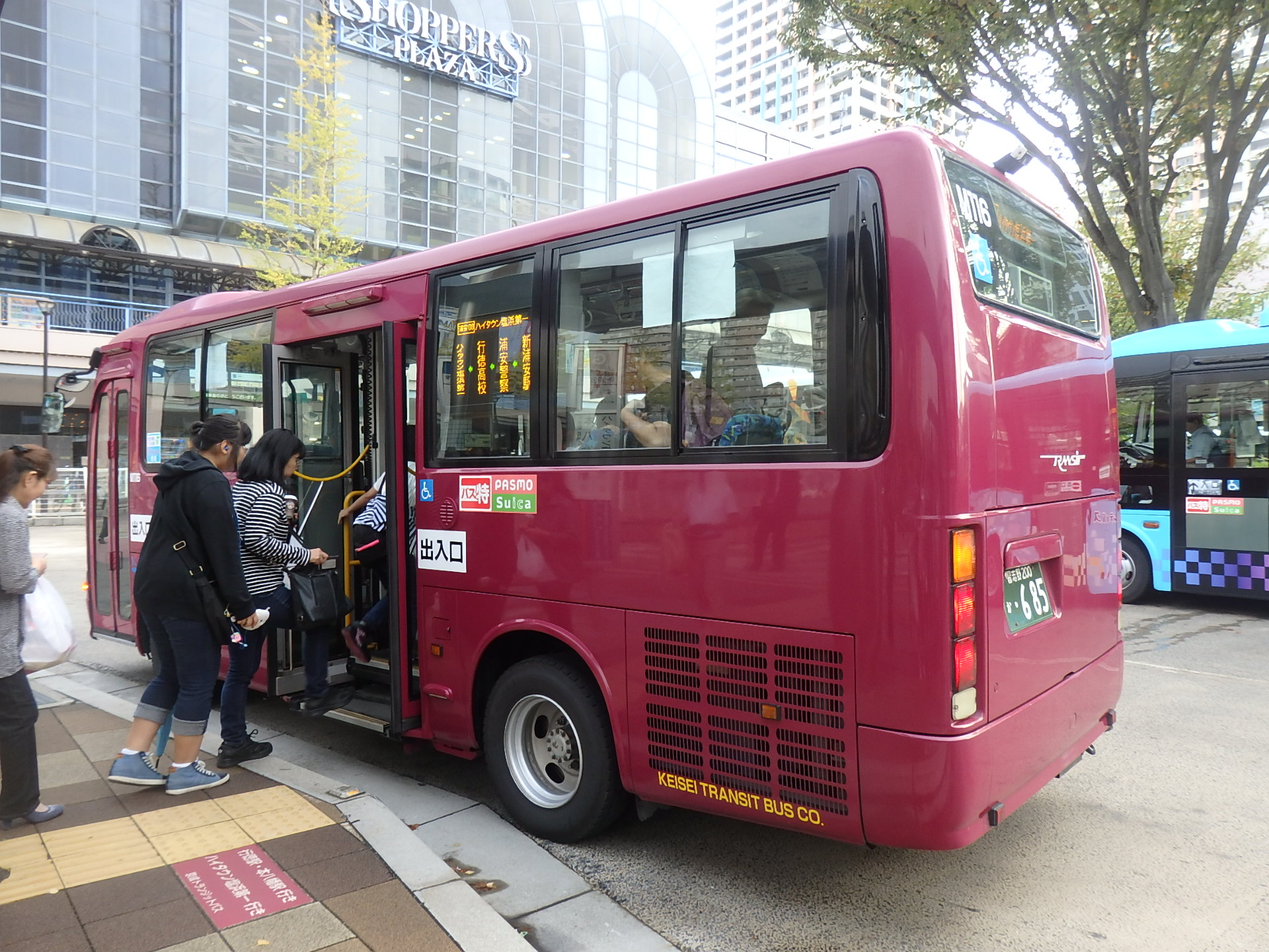
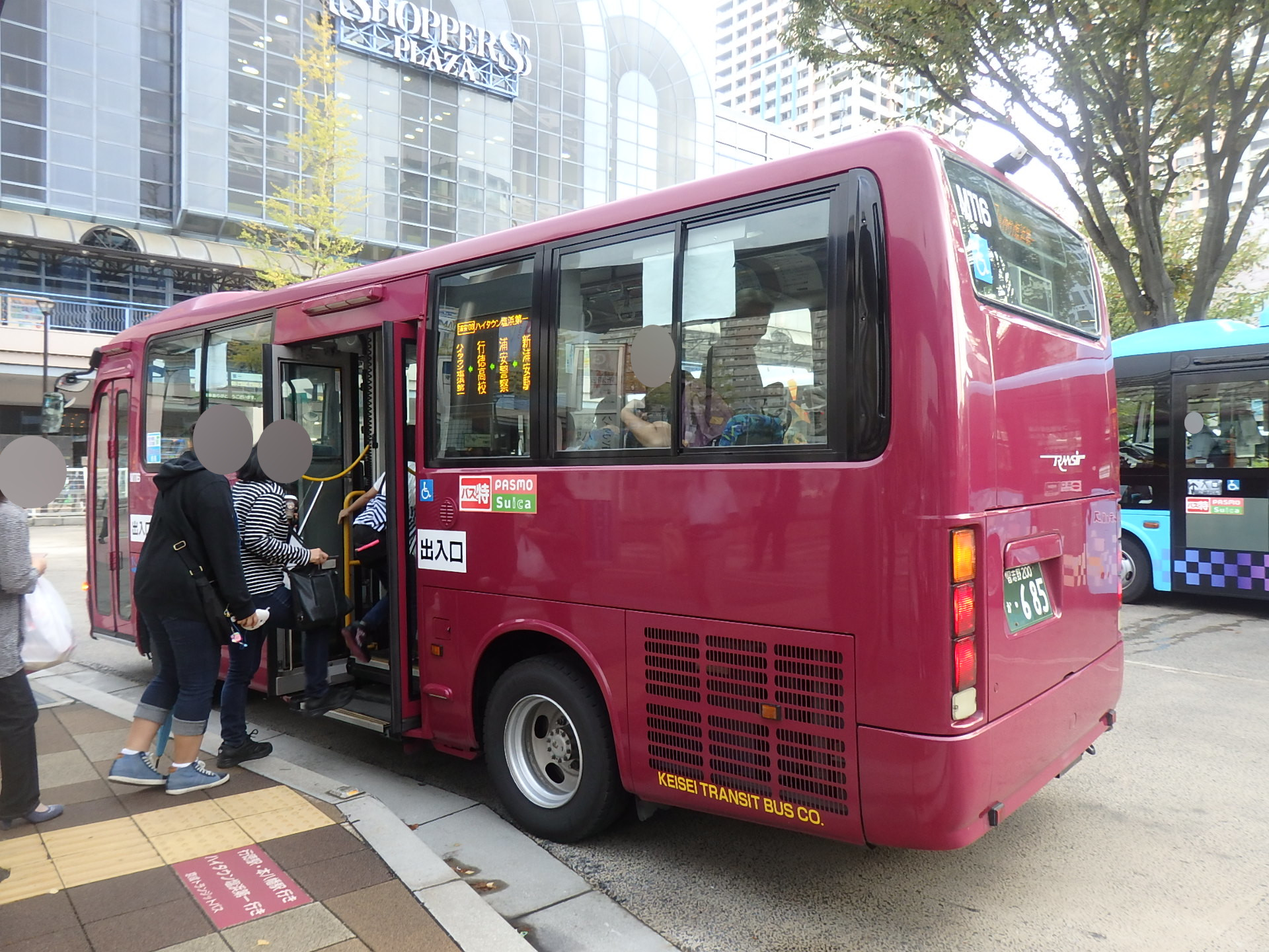
20251231 - added M244, M245, M250, M252 page - edited M242, M246, M248, M251, M254, M253, 501, M114, M116, M232, M233 page

diff --git a/docs/gkbuspage/Buses.html b/docs/gkbuspage/Buses.html
@@ -59,17 +59,17 @@
 		<td style="background:#800080">M241</td>
 		<td style="background:#800080"><a href="M242.html">M242</a></td>
 		<td style="background:#800080">M243</td>
-		<td style="background:#800080">M244</td>
-		<td style="background:#800080">M245</td>
+		<td style="background:#800080"><a href="M244.html">M244</a></td>
+		<td style="background:#800080"><a href="M245.html">M245</a></td>
 		<td style="background:#800080"><a href="M246.html">M246</a></td>
 		<td style="background:#00bfff">M247</td>
 		<td style="background:#00bfff"><a href="M248.html">M248</a></td>
 		<td style="background:#00bfff">M249</td>
 	</tr>
 	<tr>
-		<td style="background:#800080">M250</td>
+		<td style="background:#800080"><a href="M250.html">M250</a></td>
 		<td style="background:#00008b"><font color="white"><a href="M251.html">M251</a></font></td>
-		<td style="background:#00008b"><font color="white">M252</font></td>
+		<td style="background:#00008b"><font color="white"><a href="M252.html">M252</a></font></td>
 		<td style="background:#00008b"><font color="white"><a href="M253.html">M253</a></font></td>
 		<td style="background:#00008b"><font color="white"><a href="M254.html">M254</a></font></td>
 		<td style="background:#00008b"><font color="white">M255</font></td>
@@ -134,4 +134,5 @@
 </table>
 <b><font color="#ff0000">注意！この表にある車両だけでも相当数の車両が転出していますが、反映していません。あくまでも在籍時の記録としてご活用ください。</font></b><br>
 ※各ページの写真には肖像権関連の事情で加工が施されている場合があります<br>
+2025/12/31：M244，M245，M250，M252号車のページを追加．M242，M246，M248，M251，M254，M253，501，M114，M116，M232，M233号車のページを編集．
 </body>

diff --git a/docs/gkbuspage/M250.html b/docs/gkbuspage/M250.html
@@ -1,0 +1,42 @@
+<!DOCTYPE html>
+<html lang="ja">
+<head>
+<meta http-equiv="Content-Type" content="text/html; charset=UTF-8">
+<link rel="shortcut icon" href="../favicon.ico" />
+<link rel="icon" type="image/vnd.microsoft.icon" href="../favicon.ico">
+<link rel="stylesheet" type="text/css" href="../csses/transit.css">
+<title>M250 - 車両紹介 - ZerosakaDiary</title>
+</head>
+<body background="../images/Aquablue_mat.JPG">
+<FONT size="7">M250</FONT><br>
+<table border="1" cellpadding="5" cellspacing="0">
+	<tr>
+		<td colspan=2><b>M250号車</b></td>
+	</tr>
+	<tr>
+		<td>運用範囲</td>
+		<td>貸切</td>
+	</tr>
+	<tr>
+		<td>車種</td>
+		<td>エルガ</td>
+	</tr>
+	<tr>
+		<td>車番が記述されている場所</td>
+		<td>前面窓下凹部</td>
+	</tr>
+	<tr>
+		<td>特記事項</td>
+		<td>どうしてハイブリッドと新型エルガの間に一両だけこいつがいる？</td>
+	</tr>
+</table>
+この車両の不思議なところ，それはエルガハイブリッドと新型エルガの間に挟まれた，<b>へんなところにひとりぼっちの</b>エルガということである．<br>
+そんなこの車両も，今ではM251といっしょに貸切行き．なんだろうこの会社，やはりヘンだ．<br>
+<p>
+<img src="pictures\250/IMG_0167.JPG" alt="写真" title="前面。花火大会の日なので，本八幡駅南口と大洲防災公園間をピストン輸送していた．" width=75%>
+</p>
+<p>
+<img src="pictures\250/s-PXL_20241012_042153113.JPG" alt="写真" title="側面。2024年10月時点ではまだ貸切ではなかったようだ．" width=75%>
+</p>
+<a href="Buses.html">戻る</a>
+<!--2018/06/27 完成-->

diff --git a/docs/gkbuspage/M252.html b/docs/gkbuspage/M252.html
@@ -5,13 +5,13 @@
 <link rel="shortcut icon" href="../favicon.ico" />
 <link rel="icon" type="image/vnd.microsoft.icon" href="../favicon.ico">
 <link rel="stylesheet" type="text/css" href="../csses/transit.css">
-<title>M251 - 車両紹介 - ZerosakaDiary</title>
+<title>M252 - 車両紹介 - ZerosakaDiary</title>
 </head>
 <body background="../images/Aquablue_mat.JPG">
-<FONT size="7">M251</FONT><br>
+<FONT size="7">M252</FONT><br>
 <table border="1" cellpadding="5" cellspacing="0">
 	<tr>
-		<td colspan=2><b>M251号車</b></td>
+		<td colspan=2><b>M252号車</b></td>
 	</tr>
 	<tr>
 		<td>運用範囲</td>
@@ -27,11 +27,18 @@
 	</tr>
 	<tr>
 		<td>特記事項</td>
-		<td>京成ﾄﾗﾝｼﾞｯﾄﾊﾞｽで最初に導入された新型エルガである。</td>
+		<td></td>
 	</tr>
 </table>
 <p>
-<img src="pictures\251\P7220013.JPG" alt="写真" title="前面。新車ということもあり非常に光沢が強い。" width=75%>
+<img src="pictures\252\s-PXL_20240930_214557120.JPG" alt="写真" title="前面。この頃はまだ社名とロゴが残っている．" width=75%>
+</p>
+<hr>
+<p>
+<img src="pictures\252\s-PXL_20250218_234013396.JPG" alt="写真" title="前面。社名変更を1ヶ月半後に控えているため，前面からは社名は削除されている．" width=75%>
+</p>
+<p>
+<img src="pictures\252\s-PXL_20250218_234018316.JPG" alt="写真" title="後面。京成トランジットバスの社名は車体後部に小さく残すのみとなった．" width=75%>
 </p>
 <br>
 <a href="Buses.html">戻る</a>

diff --git a/docs/gkbuspage/M244.html b/docs/gkbuspage/M244.html
@@ -5,17 +5,17 @@
 <link rel="shortcut icon" href="../favicon.ico" />
 <link rel="icon" type="image/vnd.microsoft.icon" href="../favicon.ico">
 <link rel="stylesheet" type="text/css" href="../csses/transit.css">
-<title>M242 - 車両紹介 - ZerosakaDiary</title>
+<title>M244 - 車両紹介 - ZerosakaDiary</title>
 </head>
 <body background="../images/Aquablue_mat.JPG">
-<FONT size="7">M242</FONT><br>
+<FONT size="7">M244</FONT><br>
 <table border="1" cellpadding="5" cellspacing="0">
 	<tr>
-		<td colspan=2><b>M242号車</b></td>
+		<td colspan=2><b>M244号車</b></td>
 	</tr>
 	<tr>
 		<td>運用範囲</td>
-		<td>京成ﾄﾗﾝｼﾞｯﾄﾊﾞｽ通常路線</td>
+		<td>貸切・JP楽天ロジスティクス専用</td>
 	</tr>
 	<tr>
 		<td>車種</td>
@@ -31,8 +31,7 @@
 	</tr>
 </table>
 <p>
-<img src="pictures\242/IMG_0938_trimmed.JPG" alt="写真" title="前面。白字で「ノンステップバス」と表記されている。" width=75%>
-<img src="pictures\242/s-PXL_20241006_062542264.JPG" alt="写真" title="後部。コミュニティ代走時に撮影．" width=75%>
+<img src="pictures\244/s-PXL_20241017_233506989.MP.JPG" alt="写真" title="前面。判りづらいが，側面に白字で「JP楽天ロジスティクス」と表記されている。" width=75%>
 </p>
 <a href="Buses.html">戻る</a>
 <!--2018/06/29 完成-->

diff --git a/docs/gkbuspage/M245.html b/docs/gkbuspage/M245.html
@@ -5,13 +5,13 @@
 <link rel="shortcut icon" href="../favicon.ico" />
 <link rel="icon" type="image/vnd.microsoft.icon" href="../favicon.ico">
 <link rel="stylesheet" type="text/css" href="../csses/transit.css">
-<title>M242 - 車両紹介 - ZerosakaDiary</title>
+<title>M244 - 車両紹介 - ZerosakaDiary</title>
 </head>
 <body background="../images/Aquablue_mat.JPG">
-<FONT size="7">M242</FONT><br>
+<FONT size="7">M244</FONT><br>
 <table border="1" cellpadding="5" cellspacing="0">
 	<tr>
-		<td colspan=2><b>M242号車</b></td>
+		<td colspan=2><b>M245号車</b></td>
 	</tr>
 	<tr>
 		<td>運用範囲</td>
@@ -23,7 +23,7 @@
 	</tr>
 	<tr>
 		<td>車番が記述されている場所</td>
-		<td>窓下凹部</td>
+		<td>前面窓下凹部</td>
 	</tr>
 	<tr>
 		<td>特記事項</td>
@@ -31,8 +31,7 @@
 	</tr>
 </table>
 <p>
-<img src="pictures\242/IMG_0938_trimmed.JPG" alt="写真" title="前面。白字で「ノンステップバス」と表記されている。" width=75%>
-<img src="pictures\242/s-PXL_20241006_062542264.JPG" alt="写真" title="後部。コミュニティ代走時に撮影．" width=75%>
+<img src="pictures\245/s-PXL_20240316_061326481.JPG" alt="写真" title="前面。妙典高架下の操車場で休む．" width=75%>
 </p>
 <a href="Buses.html">戻る</a>
 <!--2018/06/29 完成-->

diff --git a/docs/gkbuspage/501.html b/docs/gkbuspage/501.html
@@ -30,10 +30,10 @@
 	</tr>
 </table>
 京成トランジットバス初のポンチョ。<br>
-他車とは全く違う塗装がなされている。<br>
+水色塗装で登場した最初の車両となり，これ以降市川市コミュニティバス南部ルートの車両は水色塗装で登場する．<br>
 <p>
-<img src="pictures\501\IMG_0771.JPG" alt="写真" title="前面。水色に南部ルートオリジナル絵柄のデザインを施した、今までとは一線を画するデザインとなっている。">
-<img src="pictures/501/IMG_0772.JPG" alt="写真" title="後部。社名表記が他の車両より小さくされている。">
+<img src="pictures\501\IMG_0771.JPG" alt="写真" title="前面。水色に南部ルートオリジナル絵柄のデザインを施した、今までとは一線を画するデザインとなっている。" width=25%>
+<img src="pictures/501/IMG_0772.JPG" alt="写真" title="後部。社名表記が他の車両より小さくされている。" width=25%>
 </p>
 <br>
 <a href="Buses.html">戻る</a>

diff --git a/docs/gkbuspage/M116.html b/docs/gkbuspage/M116.html
@@ -15,7 +15,7 @@
 	</tr>
 	<tr>
 		<td>運用範囲</td>
-		<td>京成ﾄﾗﾝｼﾞｯﾄﾊﾞｽ通常路線</td>
+		<td></td>
 	</tr>
 	<tr>
 		<td>車種</td>
@@ -42,6 +42,15 @@
 </p>
 <p>
 <img src="pictures\116\P1220085.JPG" alt="写真" title="右側側面と前面。前面と後面の行き先表示器は小型のものが使用されている。" width=75%>
+</p>
+<p>
+<img src="pictures\116\IMG_0936.JPG" alt="写真" title="側面行先表示器。側面の表示器は若干小型だが，通常サイズと遜色ない仕様のものが使用されている．" width=50%>
+</p>
+<p>
+<img src="pictures\116\P1220088.JPG" alt="写真" title="新浦安駅のりばに進入。今では，塩浜循環も鬼籍入りしてしまい，隔世の感．" width=75%>
+</p>
+<p>
+<img src="pictures\116\IMG_0937.JPG" alt="写真" title="おそらく本八幡駅南口にて，乗客を降ろす．" width=50%>
 </p>
 <br><a href="Buses.html">戻る</a>
 <!-- 2018/06/27 完成 -->

diff --git a/docs/gkbuspage/M254.html b/docs/gkbuspage/M254.html
@@ -23,7 +23,7 @@
 	</tr>
 	<tr>
 		<td>車番が記述されている場所</td>
-		<td>前面凹部</td>
+		<td>前面窓下凹部</td>
 	</tr>
 	<tr>
 		<td>特記事項</td>
@@ -32,7 +32,10 @@
 </table>
 京成トランジットバス二台目の新型エルガミオ。<br>
 <p>
-<img src="pictures\254\PB060066.JPG" alt="写真" title="前面。新車ということもあり非常に光沢が強い。">
+<img src="pictures\254\PB060066.JPG" alt="写真" title="前面。新車ということもあり非常に光沢が強い。" width=75%>
+</p>
+<p>
+<img src="pictures\254\s-PXL_20241201_062608877.MP.JPG" alt="写真" title="後面。光沢が相当失われ，若干退色しているのがわかる．" width=75%>
 </p>
 <br>
 <a href="Buses.html">戻る</a>

diff --git a/docs/gkbuspage/M232.html b/docs/gkbuspage/M232.html
@@ -36,8 +36,7 @@
 <img src="pictures\232\P5040007.JPG" title="前面（コミュニティ運用時代）" width=75%>
 </p>
 <p>
-	<img src="pictures/232/IMG_0958.JPG" title="前部（通常路線運用復帰後）" width=75%>
-	<img src="pictures/232/IMG_0959.JPG" title="後部（通常路線運用復帰後）" width=75%>
+	<img src="pictures/232/IMG_0958.JPG" title="前部（通常路線運用復帰後）" width=25%><img src="pictures/232/IMG_0959.JPG" title="後部（通常路線運用復帰後）" width=25%>
 </p>
 <a href="Buses.html">戻る</a>
 <!--2018/06/27 完成-->

diff --git a/docs/gkbuspage/M246.html b/docs/gkbuspage/M246.html
@@ -23,7 +23,7 @@
 	</tr>
 	<tr>
 		<td>車番が記述されている場所</td>
-		<td>車内取付札</td>
+		<td>前面窓下凹部</td>
 	</tr>
 	<tr>
 		<td>特記事項</td>
@@ -35,6 +35,9 @@
 </p>
 <p>
 <img src="pictures\246\P1030329.JPG" alt="写真" title="前面。京成トランジットバスのエルガミオは時たまコミュニティバスの代走に使われる。" width=75%>
+</p>
+<p>
+<img src="pictures\246\s-IMG_5054.JPG" alt="写真" title="側面。" width=75%>
 </p>
 <a href="Buses.html">戻る</a>
 <!--2018/06/27 完成-->

diff --git a/docs/gkbuspage/M248.html b/docs/gkbuspage/M248.html
@@ -11,7 +11,7 @@
 <FONT size="7">M248</FONT><br>
 <table border="1" cellpadding="5" cellspacing="0">
 	<tr>
-		<td colspan=2><b>M246号車</b></td>
+		<td colspan=2><b>M248号車</b></td>
 	</tr>
 	<tr>
 		<td>運用範囲</td>
@@ -19,11 +19,11 @@
 	</tr>
 	<tr>
 		<td>車種</td>
-		<td>エルガ</td>
+		<td>エルガハイブリッド</td>
 	</tr>
 	<tr>
 		<td>車番が記述されている場所</td>
-		<td>車内取付札</td>
+		<td>前面窓下凹部</td>
 	</tr>
 	<tr>
 		<td>特記事項</td>

diff --git a/docs/gkbuspage/M114.html b/docs/gkbuspage/M114.html
@@ -15,7 +15,7 @@
 	</tr>
 	<tr>
 		<td>運用範囲</td>
-		<td>京成ﾄﾗﾝｼﾞｯﾄﾊﾞｽ貸切路線<br>教習</td>
+		<td>京成ﾄﾗﾝｼﾞｯﾄﾊﾞｽ貸切路線</td>
 	</tr>
 	<tr>
 		<td>車種</td>
@@ -23,7 +23,7 @@
 	</tr>
 	<tr>
 		<td>車番が記述されている場所</td>
-		<td>前面凹部</td>
+		<td>前面窓下凹部</td>
 	</tr>
 	<tr>
 		<td>特記事項</td>
